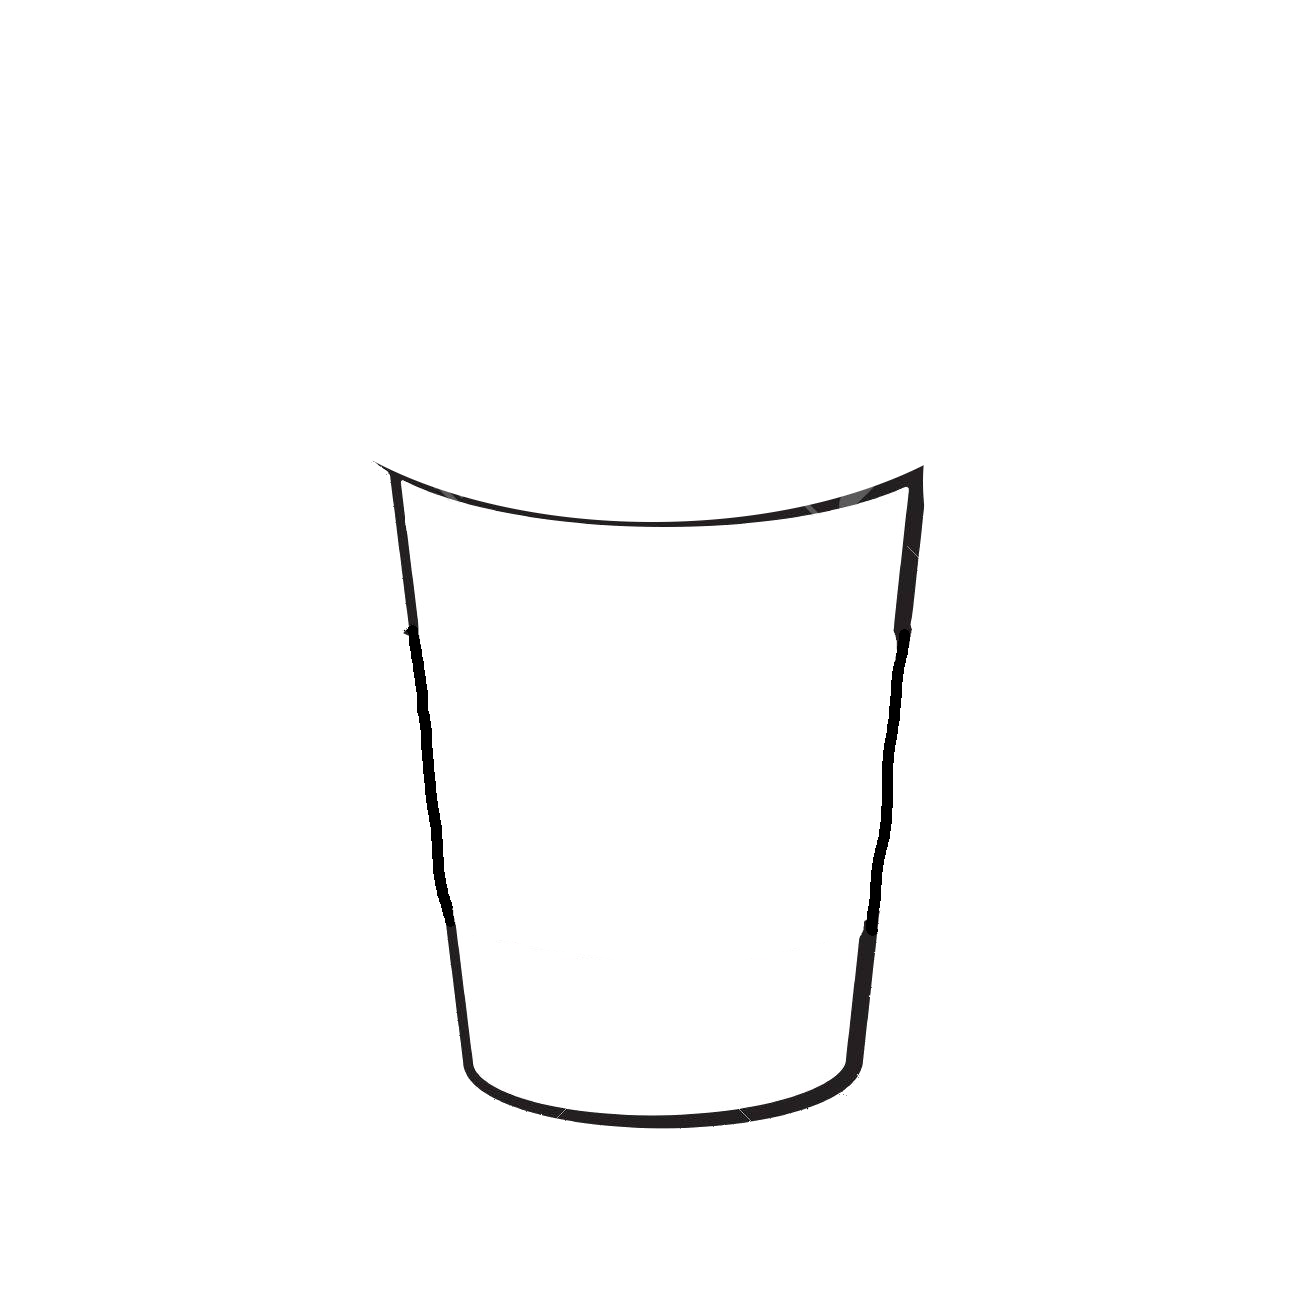
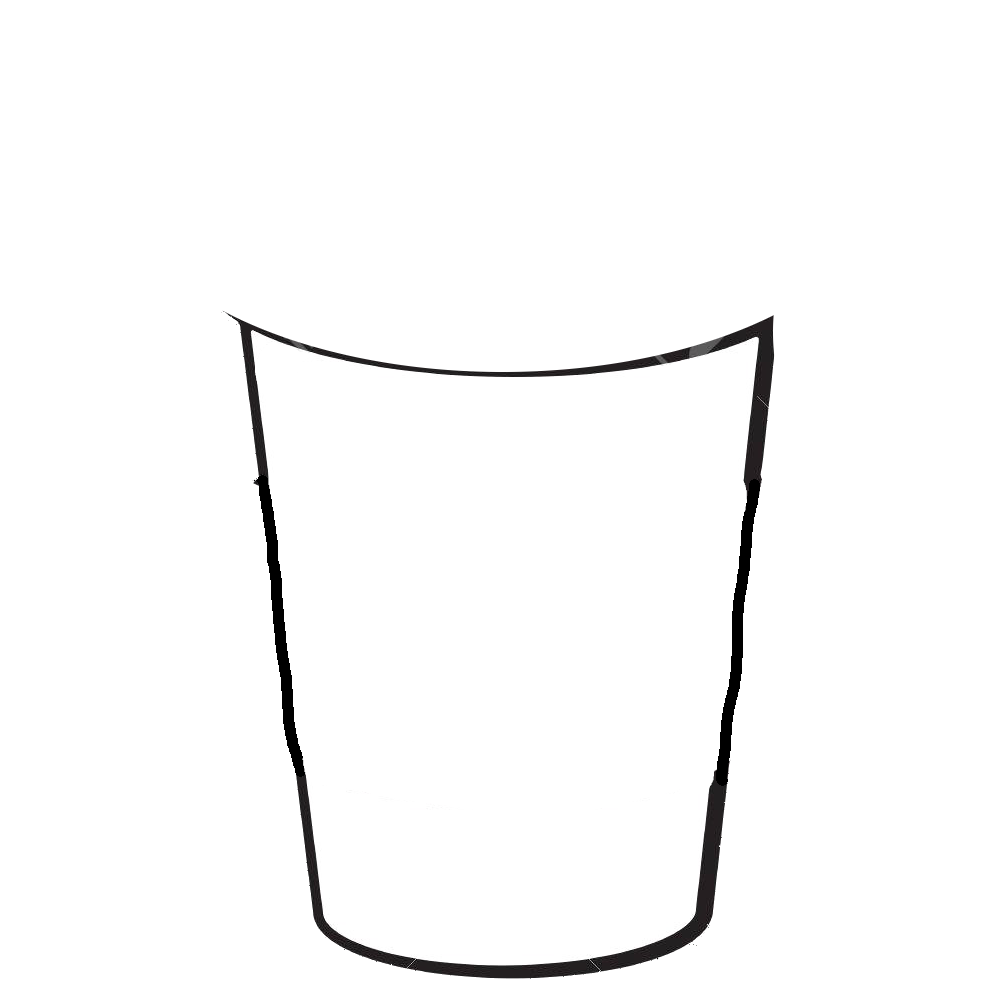
Formatted  new recyclables pic and put into the right path.

Changed region(s): [[0.217, 0.31, 0.775, 0.992], [0.341, 0.682, 0.372, 0.837]]

diff --git a/public/index.js b/public/index.js
@@ -113,8 +113,8 @@ function moveSearchBar_recyclable(callback) {
 
 // Move item showcase to home page position
 function moveItemShowcase_home() {
-  var $item = $(".currentItem").fadeOut(400, function () {
-    $item.remove();
+  $(".currentItem").fadeOut(400, function () {
+    $(this).remove();
   });
   $mysteryItemsWrapper.children().not('.currentItem').fadeIn(400);
 };
@@ -123,20 +123,7 @@ function moveItemShowcase_home() {
 function moveItemShowcase_recyclable() {
   $midItemPosition = $allMysteryItems.eq(midItemIndex).position();
 
-  // Clone the item in the middle of item showcase, cover it on the same position
-  var $item = $allMysteryItems.eq(midItemIndex).clone();
-  $item.attr("id", `${$item.attr("src").split("/")[2]}`);
-  $item.removeClass('mystery-item');
-  $item.addClass('currentItem')
-  $item.css({
-    "position": "absolute",
-    "width": "220px",
-    "animation": "none",
-    "filter": "none",
-    "top": $midItemPosition.top,
-    "left": $midItemPosition.left
-  })
-
+  var $item = createCurrentItem();
   $mysteryItemsWrapper.prepend($item);
 
   // Hide the item showcase and move the cloned item
@@ -148,6 +135,23 @@ function moveItemShowcase_recyclable() {
     width: "180px"
   }, 500)
 };
+
+// Clone the item in the middle of item showcase, cover it on the same position
+function createCurrentItem() {
+  var $item = $allMysteryItems.eq(midItemIndex).clone();
+  $item.attr("id", `${$item.attr("src").split("/")[2]}`);
+  $item.removeClass('mystery-item');
+  $item.addClass('currentItem')
+  $item.css({
+    "position": "absolute",
+    "width": "180px",
+    "animation": "none",
+    "filter": "none",
+    "top": $midItemPosition.top,
+    "left": $midItemPosition.left
+  })
+  return $item;
+}
 
 // Move bins to home page position
 function moveBins_home() {
@@ -194,6 +198,50 @@ var fullItemList;
 // Get the item list ready when page loaded
 retrieveItems();
 
+// Set on click listener for each item in the list
+function setItemListListener() {
+  $("#item-list-container li").on("click", function () {
+    $('.currentItem').stop();
+    $('.bin').stop();
+    $(".currentSelectedItem").removeClass("currentSelectedItem");
+    $(this).addClass("currentSelectedItem");
+
+    $(".currentItem").fadeOut(400, function () {
+      $(this).remove();
+    });
+
+    let itemID = $(this).attr('id').split('-')[0];
+    let itemSrc = `img/recyclables/${itemID}/${itemID}.png`;
+    var itemExist = UrlExists(itemSrc);
+    if (!itemExist) {
+      itemID = 'coffee_cup';
+      itemSrc = `img/recyclables/${itemID}/${itemID}.png`;
+    };
+
+    var $item = createCurrentItem();
+
+    $item.attr('src', itemSrc);
+    $item.attr('id', itemID);
+
+    $item.css({
+      "left": "+=" + $pageWrapper.width() * 0.1,
+      "top": "+=50px",
+      "width": "180px"
+    })
+    $mysteryItemsWrapper.prepend($item);
+    $item.hide().fadeIn(500, () => {
+      assignBinAnimation();
+    });
+  })
+}
+
+function UrlExists(url) {
+  var http = new XMLHttpRequest();
+  http.open('HEAD', url, false);
+  http.send();
+  return http.status != 404;
+}
+
 // Get all items from firebase create the item list
 function retrieveItems() {
   firebase.database().ref("recyclables").once("value", snap => {
@@ -219,15 +267,6 @@ function creatItemList() {
 
   setItemListListener();
 }
-
-// Set on click listener for each item in the list
-function setItemListListener() {
-  $("#item-list-container li").on("click", function () {
-    $(".currentSelectedItem").removeClass("currentSelectedItem");
-    $(this).addClass("currentSelectedItem");
-  })
-}
-
 
 /*************************** mysteryItem functions ******************************/
 
@@ -364,7 +403,6 @@ function assignBinAnimation() {
       $('.part').fadeIn(300);
     });
 
-
   } else {
     moveToBin($currentItem, partsInfo[0][1]);
   }
@@ -373,10 +411,12 @@ function assignBinAnimation() {
 function moveToBin($item, typeOfBin) {
   var binOffset = $(`#${typeOfBin}_bin`).offset();
   var itemOffset = $item.offset();
-  var randomAngle = (Math.random() - 0.5) * 80;
+  var randomAngle = (Math.random() - 0.5) * 100;
+  var randomTop = Math.random() * 40 + 100;
+  var randomLeft = Math.random() * 50 + 10;
   $item.animate({
-    top: "+=" + (binOffset.top - itemOffset.top - 110),
-    left: "+=" + (binOffset.left - itemOffset.left - 25),
+    top: "+=" + (binOffset.top - itemOffset.top - randomTop),
+    left: "+=" + (binOffset.left - itemOffset.left - randomLeft),
   }, 1100);
   $item.animateRotate(randomAngle, 1000, () => {
     $(`#${typeOfBin}_bin`).effect('shake', { times: 4, distance: 8 });

diff --git a/public/index.html b/public/index.html
@@ -40,12 +40,12 @@
         <div id="left-arrow" class="arrow"><img src="img/left.png"></div>
         <div id="scrolling-wrapper">
           <div class="item"><img class="mystery-item" src="img/recyclables/coffee_cup/coffee_cup.png"></div>
+          <div class="item"><img class="mystery-item" src="img/recyclables/plastic_fork/plastic_fork.png"></div>
+          <div class="item"><img class="mystery-item" src="img/recyclables/plastic_bottle/plastic_bottle.png"></div>
           <div class="item"><img class="mystery-item" src="img/recyclables/coffee_cup/coffee_cup.png"></div>
           <div class="item"><img class="mystery-item" src="img/recyclables/pizza_box/pizza_box.png"></div>
-          <div class="item"><img class="mystery-item" src="img/recyclables/coffee_cup/coffee_cup.png"></div>
-          <div class="item"><img class="mystery-item" src="img/recyclables/pizza_box/pizza_box.png"></div>
-          <div class="item"><img class="mystery-item" src="img/recyclables/coffee_cup/coffee_cup.png"></div>
-          <div class="item"><img class="mystery-item" src="img/recyclables/pizza_box/pizza_box.png"></div>
+          <div class="item"><img class="mystery-item" src="img/recyclables/take_out_box/take_out_box.png"></div>
+          <div class="item"><img class="mystery-item" src="img/recyclables/plastic_spoon/plastic_spoon.png"></div>
           <div class="item"><img class="mystery-item" src="img/recyclables/pizza_box/pizza_box.png"></div>
         </div>
         <div id="right-arrow" class="arrow"><img src="img/right.png"></div>
